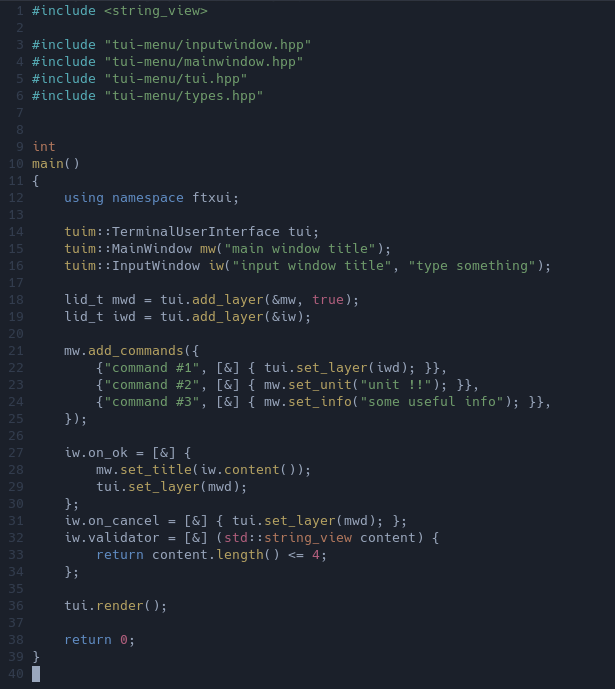
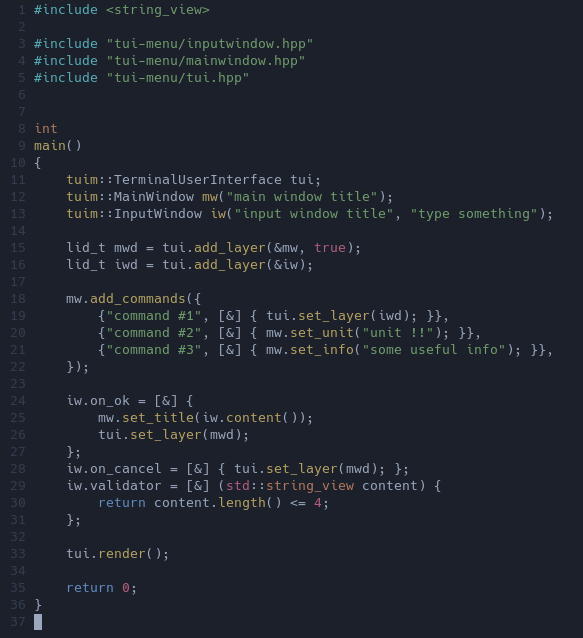
small fixes

diff --git a/main.cpp b/main.cpp
@@ -3,14 +3,11 @@
 #include "tui-menu/inputwindow.hpp"
 #include "tui-menu/mainwindow.hpp"
 #include "tui-menu/tui.hpp"
-#include "tui-menu/types.hpp"
 
 
 int
 main()
 {
-    using namespace ftxui;
-
     tuim::TerminalUserInterface tui;
     tuim::MainWindow mw("main window title");
     tuim::InputWindow iw("input window title", "type something");

diff --git a/README.md b/README.md
@@ -14,6 +14,8 @@
 
 ## Сборка
 
+`.h`/`.hpp` файл своего контейнера можно положить в каталог `include/`
+
 Убедитесь, что у вас установлен менеджер пакетов [conan](https://conan.io)
 и произведены его необходимые базовые настройки:
 
